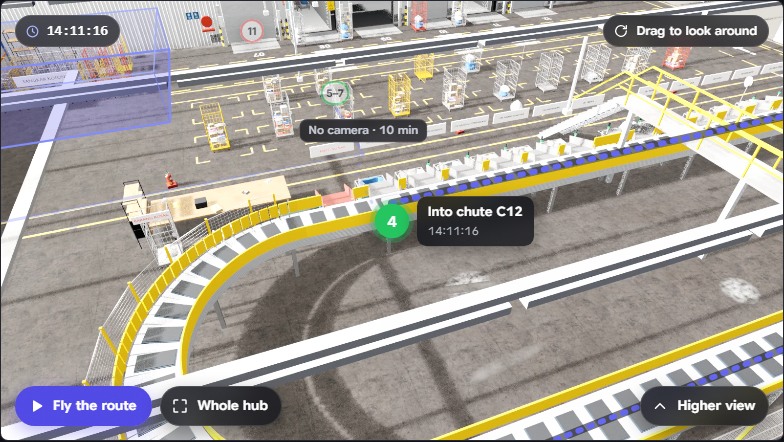
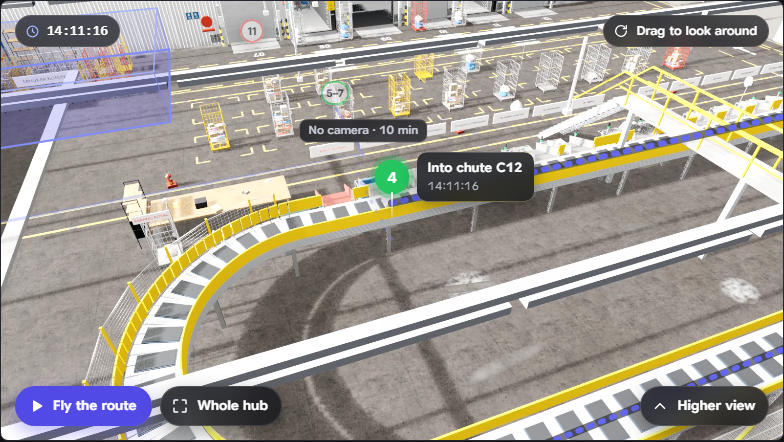
The turntables with the carton in the scene are live (every place, two heights; the first frame is the fly-through's landing); the current step's pin rises on a stem so the carton under it shows

Changed region(s): [[0.4592, 0.3235, 0.7041, 0.5882]]

diff --git a/frontend/src/components/case/HubTour.tsx b/frontend/src/components/case/HubTour.tsx
@@ -534,7 +534,7 @@ export function HubTour({ caseId }: { caseId: string }) {
                 const label = g.length > 1 ? `${g[0] + 1}–${g.at(-1)! + 1}` : `${g[0] + 1}`;
                 return (
                   <button key={g[0]} type="button" tabIndex={-1} className="ht-pin" data-tone={c.tone} data-on={here ? "" : undefined} data-flip={flip ? "" : undefined}
-                    data-reached={g[0] <= reached ? "" : undefined} data-lift={ending && endAt != null && g.includes(held) ? "" : undefined}
+                    data-reached={g[0] <= reached ? "" : undefined} data-lift={carton3d && (here || (ending && g.includes(held))) ? "" : undefined}
                     style={{ left: `${p[0] * 100}%`, top: `${(1 - p[1]) * 100}%` }} onClick={() => void goTo(here ? on : g[0])}>
                     <span className="ht-pin-n">{here ? on + 1 : label}</span>
                     {here && <span className="ht-pin-tag"><b>{c.title}</b><small>{hms(c.t)}</small></span>}

diff --git a/frontend/src/components/case/hubtour.css b/frontend/src/components/case/hubtour.css
@@ -340,7 +340,7 @@ a.ht-btn-main { text-decoration: none; display: grid; place-items: center; }
 .ht-zone[data-glow] .ht-zone-top { stroke: #c7d2fe; stroke-width: 2px; }
 .ht-zone[data-glow] { filter: drop-shadow(0 0 10px rgba(129, 140, 248, 0.85)); }
 .ht-end[data-foot] { top: auto; bottom: 14px; left: auto; right: 14px; transform: none; justify-items: end; text-align: right; animation-name: ht-end-up; }
-/* on the ending the store's pin rises on a stem, so the carton it marks shows underneath */
+/* the step's pin (and on the ending the store's) rises on a stem, so the carton in the scene shows underneath */
 .ht-pin[data-lift] { transform: translate(-50%, calc(-50% - 44px)); }
 .ht-pin[data-lift]::after { content: ""; position: absolute; left: 50%; top: 100%; width: 2px; height: 30px; margin-left: -1px; background: linear-gradient(rgba(255, 255, 255, 0.9), rgba(255, 255, 255, 0)); }
 @keyframes ht-end-up { from { opacity: 0; transform: translateY(12px); } }
